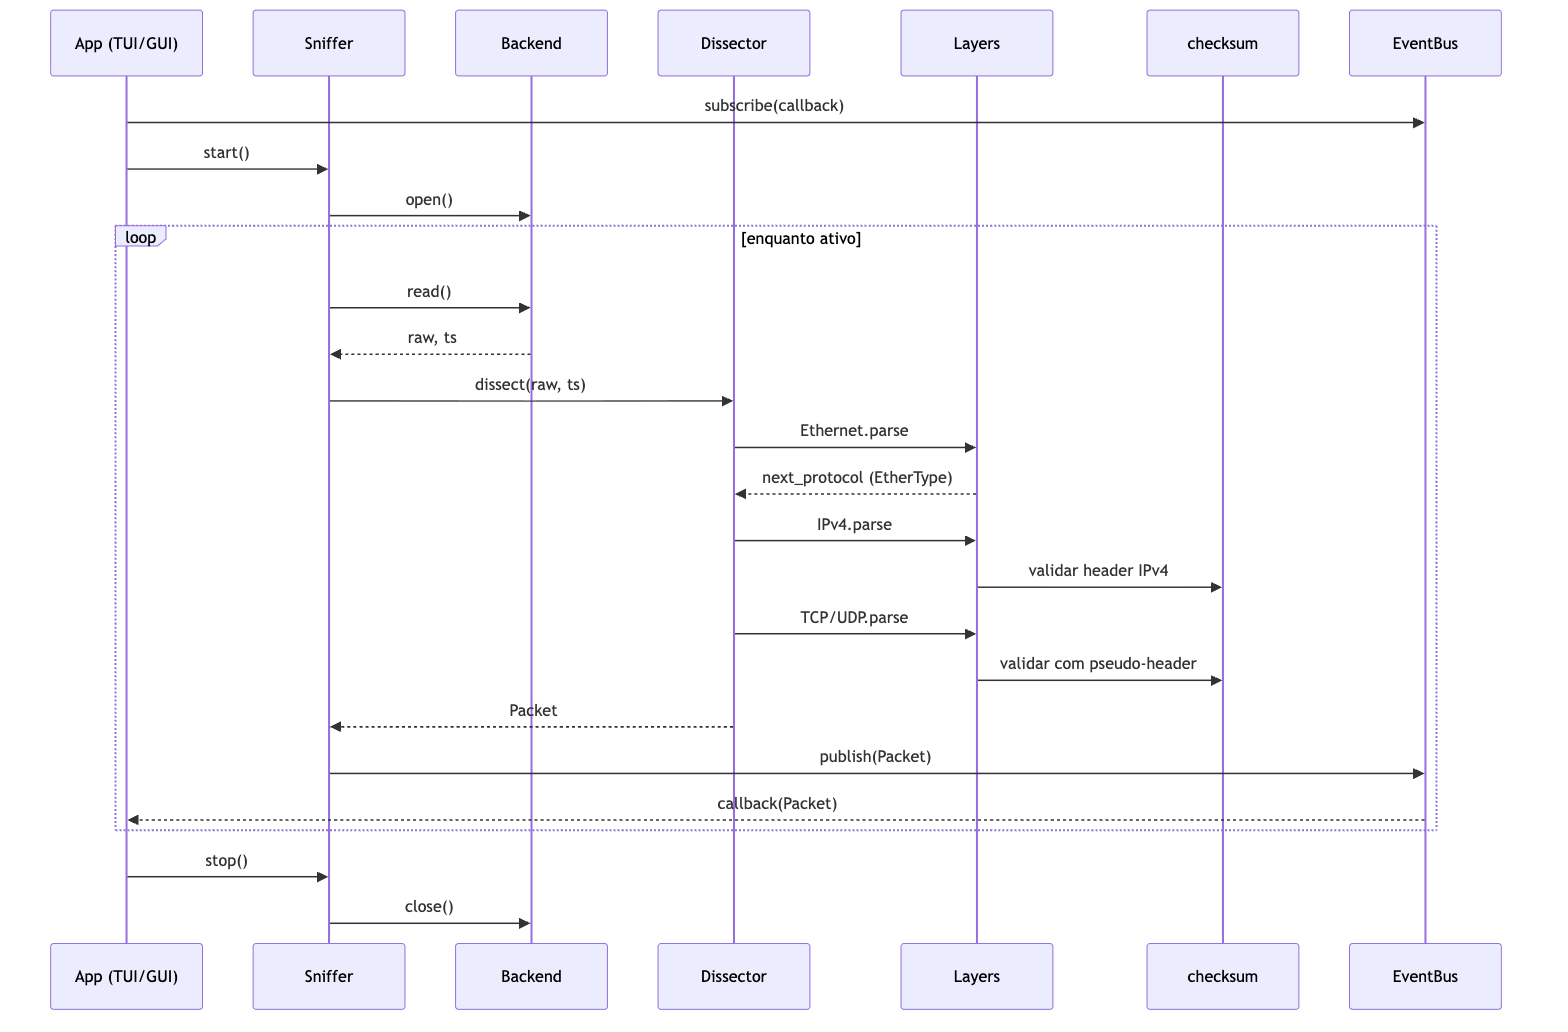
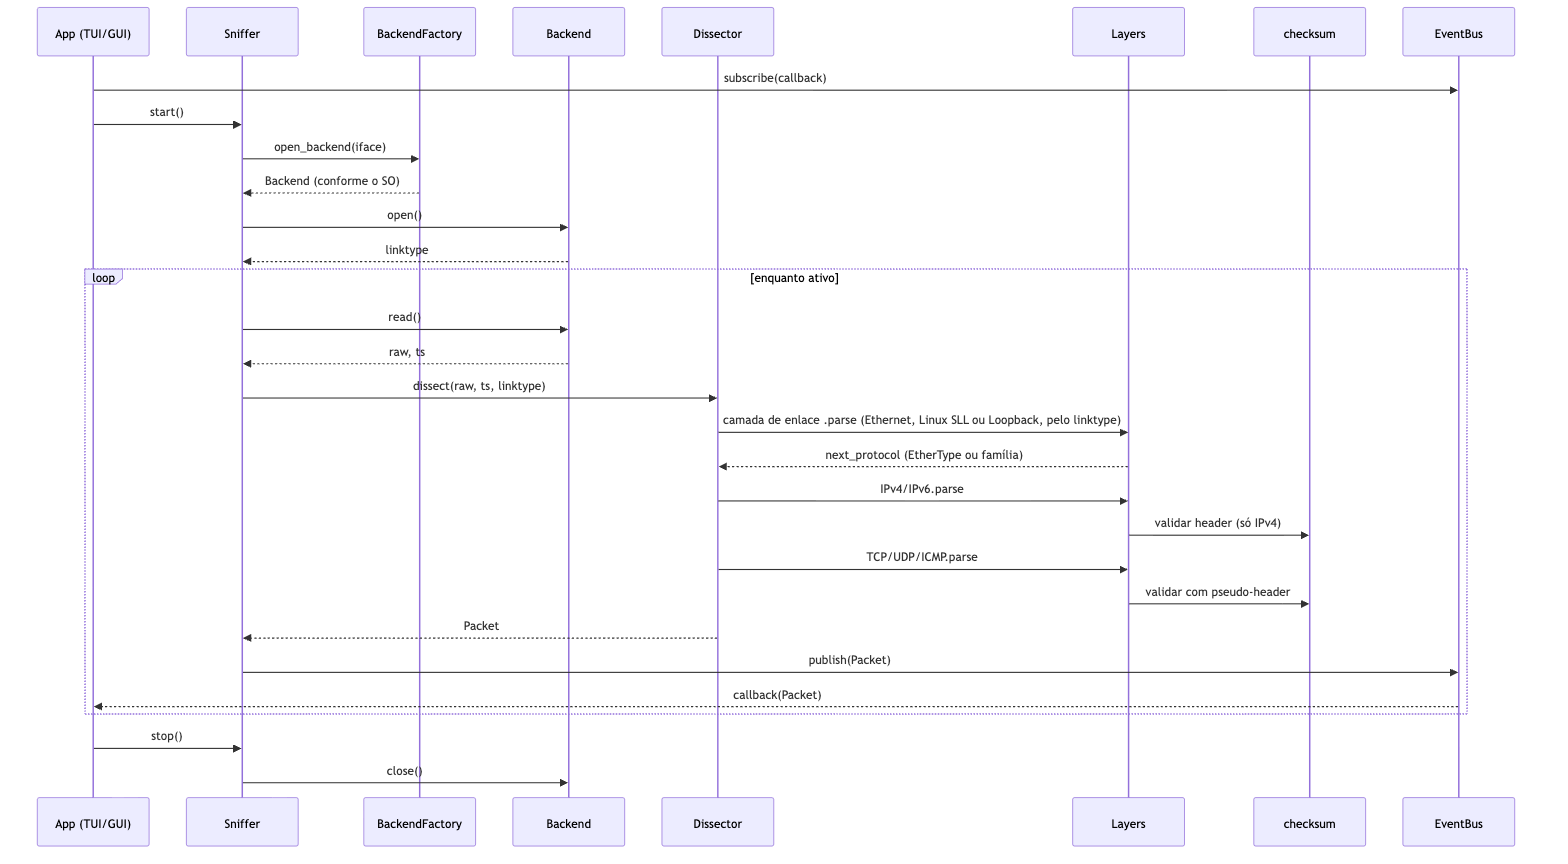
Fix checksum bugs and sync README and diagrams with multiplatform architecture
- checksum: fix pseudo_header_v6 struct format (16s16sI3xB)
- demo: 0xFFFF fallback for zero UDP checksum; valid UDP case uses computed checksum
- README: multiplatform support, Python 3.10+ requirement, updated module tree, decisions and roadmap
- diagrams: add LibpcapBackend, BackendFactory, LinuxSLL, Loopback and linktype flow

diff --git a/demo_checksum.py b/demo_checksum.py
@@ -6,7 +6,7 @@ ipv4 =  bytes.fromhex("45000073000040004011b861c0a80001c0a800c7")
 def udp(payload, cs=None):
     seg = struct.pack("!HHHH", 5353, 53, 8 + len(payload), 0) + payload
     if cs is None:
-         cs =internet_checksum(pseudo_header_v4(SRC,DST, PROTO_UDP, len(seg)) + seg) or 0xFFF
+         cs =internet_checksum(pseudo_header_v4(SRC,DST, PROTO_UDP, len(seg)) + seg) or 0xFFFF
     return seg[:6] + struct.pack("!H", cs) + seg[8:]
 
 def show(nome, r):
@@ -21,7 +21,7 @@ corrompido = bytearray(ipv4); corrompido[8] ^= 0xFF
 show("ipv4 valido", verify("ipv4", ipv4, OFFSET_IPV4))
 show("ipv4 com ttl corrompido", verify("ipv4", bytes(corrompido), OFFSET_IPV4))
 
-s = udp(b"hello", cs=0x1234)
+s = udp(b"hello")
 show("udp valido", verify("udp", s, OFFSET_UDP, ps(s)))
 
 s = udp(b"hello", cs=0)

diff --git a/checksum.py b/checksum.py
@@ -40,7 +40,7 @@ def pseudo_header_v4(src: bytes, dst: bytes, proto: int, length: int) -> bytes:
     return struct.pack("!4s4sBBH", src, dst,0 , proto, length)
 
 def pseudo_header_v6(src: bytes, dst: bytes, next_header: int, length: int) -> bytes:
-    return struct.pack("!16s16I3xB", src, dst, length, next_header)
+    return struct.pack("!16s16sI3xB", src, dst, length, next_header)
 
 def _with_zeroed_field(data: bytes, offset: int) -> tuple[int, bytes]:
     expected = struct.unpack_from("!H", data, offset)[0]

diff --git a/README.md b/README.md
@@ -1,10 +1,13 @@
 # rawpkt
 
-Sniffer de pacotes de rede escrito em Python. O rawpkt captura em tempo real os frames que passam pela placa de rede, decodifica cada camada de protocolo (Ethernet, IP, TCP, UDP e ICMP), mostra os campos dos headers e valida os checksums.
+Sniffer de pacotes de rede escrito em Python, para Windows, macOS e Linux. O rawpkt captura em tempo real os frames que passam pela placa de rede, decodifica cada camada de protocolo (Ethernet, IP, TCP, UDP e ICMP), mostra os campos dos headers e valida os checksums.
 
 A proposta é tornar observável o tráfego de rede, que normalmente é invisível, e servir de ponte entre a teoria de Redes de Computadores e a programação de baixo nível.
 
 > **Estado do projeto:** em desenvolvimento. Hoje só o módulo de checksum está implementado. Veja o [roadmap](#roadmap).
+
+> [!IMPORTANT]
+> **Requer Python 3.10 ou mais recente.** Em versões anteriores, o import falha com `TypeError: dataclass() got an unexpected keyword argument 'slots'`. Confira com `python3 --version` antes de rodar. Detalhes em [Requisitos](#requisitos).
 
 ## Por que não usar o Wireshark?
 
@@ -34,35 +37,54 @@ O projeto tem duas partes:
 
 | # | Camada | Módulo | Responsabilidade |
 |---|--------|--------|------------------|
-| 1 | Captura | `capture` | Obtém os bytes crus de cada frame a partir de um backend que pode ser trocado. |
-| 2 | Dissecação | `dissector` + `layers` | Transforma os bytes em objetos de camada encadeados. Usa o EtherType e o campo de protocolo do IP para decidir o próximo parser. |
+| 1 | Captura | `capture` | Obtém os bytes crus de cada frame, e o `linktype` da interface, a partir de um backend que pode ser trocado. |
+| 2 | Dissecação | `dissector` + `layers` | Transforma os bytes em objetos de camada encadeados. Parte do `linktype` e usa o EtherType e o campo de protocolo do IP para decidir o próximo parser. |
 | 3 | Validação | `checksum` | Recalcula os checksums e compara com os valores recebidos. |
 | 4 | Distribuição | `events` | Publica cada pacote analisado num barramento de eventos. |
 | 5 | Apresentação | `apps` | A TUI ou a GUI se inscrevem nos eventos e exibem os dados. |
+
+### Suporte multiplataforma
+
+O projeto é compartilhado e precisa rodar em Windows, macOS e Linux. Cada sistema expõe a captura de um jeito diferente:
+
+| Sistema | Mecanismo nativo | Backend no rawpkt | Privilégios |
+|---------|------------------|-------------------|-------------|
+| Linux | `AF_PACKET` ou libpcap | `LibpcapBackend` ou `LinuxRawSocket` | root ou `CAP_NET_RAW` |
+| macOS | BPF (`/dev/bpf*`), libpcap já vem no sistema | `LibpcapBackend` | root ou acesso aos `/dev/bpf*` |
+| Windows | driver [Npcap](https://npcap.com/) (`wpcap.dll`) | `LibpcapBackend` | administrador, ou Npcap instalado sem restrição |
+
+O backend principal usa a libpcap via `ctypes`, que é a mesma API nos três sistemas (no Windows, fornecida pelo Npcap). Ela só entrega os bytes crus do frame, então todo o parsing e a validação continuam escritos à mão. Os raw sockets nativos do Windows (`SIO_RCVALL`) não servem, porque não entregam a camada Ethernet e capturam mal o tráfego de saída.
+
+O primeiro header nem sempre é Ethernet. No loopback do macOS ele é um header BSD de 4 bytes, e na interface `any` do Linux é o Linux SLL. Por isso o backend informa o `linktype` e o dissector começa a partir dele.
 
 ### Estrutura de módulos (planejada)
 
 ```
 rawpkt/
   capture/
-    base.py        # Backend (ABC)
-    linux_raw.py   # LinuxRawSocket (AF_PACKET)
-    pcap.py        # PcapReader
+    base.py        # Backend (ABC) + linktype
+    factory.py     # open_backend(): escolhe o backend pelo SO
+    libpcap.py     # LibpcapBackend (ctypes: libpcap / Npcap)
+    linux_raw.py   # LinuxRawSocket (AF_PACKET, alternativa no Linux)
+    pcap.py        # PcapReader (arquivos .pcap, puro Python)
+    devices.py     # listagem de interfaces
   layers/
     base.py        # Layer (ABC)
     ethernet.py
+    linux_sll.py   # interface 'any' do Linux
+    loopback.py    # loopback BSD (macOS)
     ipv4.py
     ipv6.py
     tcp.py
     udp.py
     icmp.py
   checksum.py      # internet_checksum, pseudo-headers
-  dissector.py     # Dissector, registro de protocolos
+  dissector.py     # parte do linktype, nunca assume Ethernet
   packet.py        # Packet (pilha de camadas + metadados)
   events.py        # EventBus / fila
   sniffer.py       # Sniffer (orquestra tudo)
 tests/
-  fixtures/*.pcap
+  fixtures/*.pcap  # rodam nos 3 SOs, sem privilégios
 apps/
   tui/
   gui/
@@ -84,8 +106,11 @@ Fonte editável: [`docs/diagrams/sequencia.mmd`](docs/diagrams/sequencia.mmd)
 
 - **Biblioteca separada da interface.** As apps só consomem o `EventBus`. Isso facilita os testes e permite trocar a interface sem reescrever o núcleo.
 - **Parsing manual, Scapy só nos testes.** Usar o [Scapy](https://scapy.net/) no núcleo esconderia exatamente o que se quer aprender. Por isso o parsing é escrito à mão com `struct`, e o Scapy serve só de referência para conferir os resultados nos testes.
-- **Captura atrás de uma abstração.** A ABC `Backend` isola a origem dos frames. O primeiro backend é o raw socket do Linux (`AF_PACKET`), e o `PcapReader` permite testar com tráfego gravado, sem rede ao vivo.
+- **Captura atrás de uma abstração.** A ABC `Backend` isola a origem dos frames, e o `open_backend()` escolhe a implementação de acordo com o sistema. O `PcapReader` permite testar com tráfego gravado, sem rede ao vivo.
+- **Multiplataforma sem extensões compiladas.** O backend principal é o `LibpcapBackend`, que carrega via `ctypes` a libpcap (Linux e macOS) ou a `wpcap.dll` do Npcap (Windows). O `LinuxRawSocket` (`AF_PACKET`) fica como alternativa sem dependências no Linux.
+- **O dissector nunca assume Ethernet.** Ele começa pelo `linktype` informado pelo backend (Ethernet, Linux SLL ou loopback BSD).
 - **Checksum offload não é erro.** Pacotes de saída com checksum divergente são marcados como `offload_suspected` em vez de acusados como corrompidos.
+- **Testes nos três sistemas.** Os testes usam fixtures pcap e rodam numa matriz de CI com Windows, macOS e Linux.
 
 ## O checksum da internet
 
@@ -114,23 +139,31 @@ print(r.valid, r.offload_suspected, r.skipped)
 Para ver os casos (header válido, header corrompido, UDP com checksum zero e offload) em ação:
 
 ```bash
-python demo_checksum.py
+python3 --version   # precisa ser 3.10 ou mais recente
+python3 demo_checksum.py
 ```
 
 ## Requisitos
 
-- Python 3.10 ou mais recente (o código usa `dataclass(slots=True)` e a sintaxe de tipos `X | Y`).
-- Linux, para a captura ao vivo com `AF_PACKET`. A leitura de arquivos pcap não depende de sistema operacional.
-- Privilégios de administrador (ou a capability `CAP_NET_RAW`) para abrir raw sockets.
+- **Python 3.10 ou mais recente (obrigatório).** O código usa `dataclass(slots=True)` e a sintaxe de tipos `X | Y`, que só existem a partir do 3.10.
+  - O macOS vem com o Python 3.9 em `/usr/bin/python3`, que **não** serve. Instale uma versão mais nova, por exemplo com `brew install python@3.13`.
+  - No Linux, use o gerenciador de pacotes da distribuição, o [pyenv](https://github.com/pyenv/pyenv) ou o [uv](https://docs.astral.sh/uv/).
+  - No Windows, use o instalador de [python.org](https://www.python.org/downloads/) ou o `winget`.
+- **Para a captura ao vivo:**
+  - Linux e macOS: a libpcap, que já vem no macOS e está nos repositórios das distribuições Linux.
+  - Windows: o [Npcap](https://npcap.com/).
+  - Privilégios de captura, conforme a tabela de [suporte multiplataforma](#suporte-multiplataforma).
+- A leitura de arquivos pcap é feita em Python puro e não exige privilégios nem libpcap.
 
 ## Roadmap
 
 A ordem de implementação definida é:
 
 - [x] `checksum`: checksum da internet, pseudo-headers e detecção de offload
-- [ ] `layers`: Ethernet, IPv4, IPv6, TCP, UDP, ICMP
+- [ ] `layers`: Ethernet, Linux SLL, loopback BSD, IPv4, IPv6, TCP, UDP, ICMP
 - [ ] `dissector`
 - [ ] `PcapReader`
+- [ ] `LibpcapBackend`
 - [ ] `LinuxRawSocket`
 - [ ] `events` / `Sniffer`
 - [ ] apps (TUI e/ou GUI)
